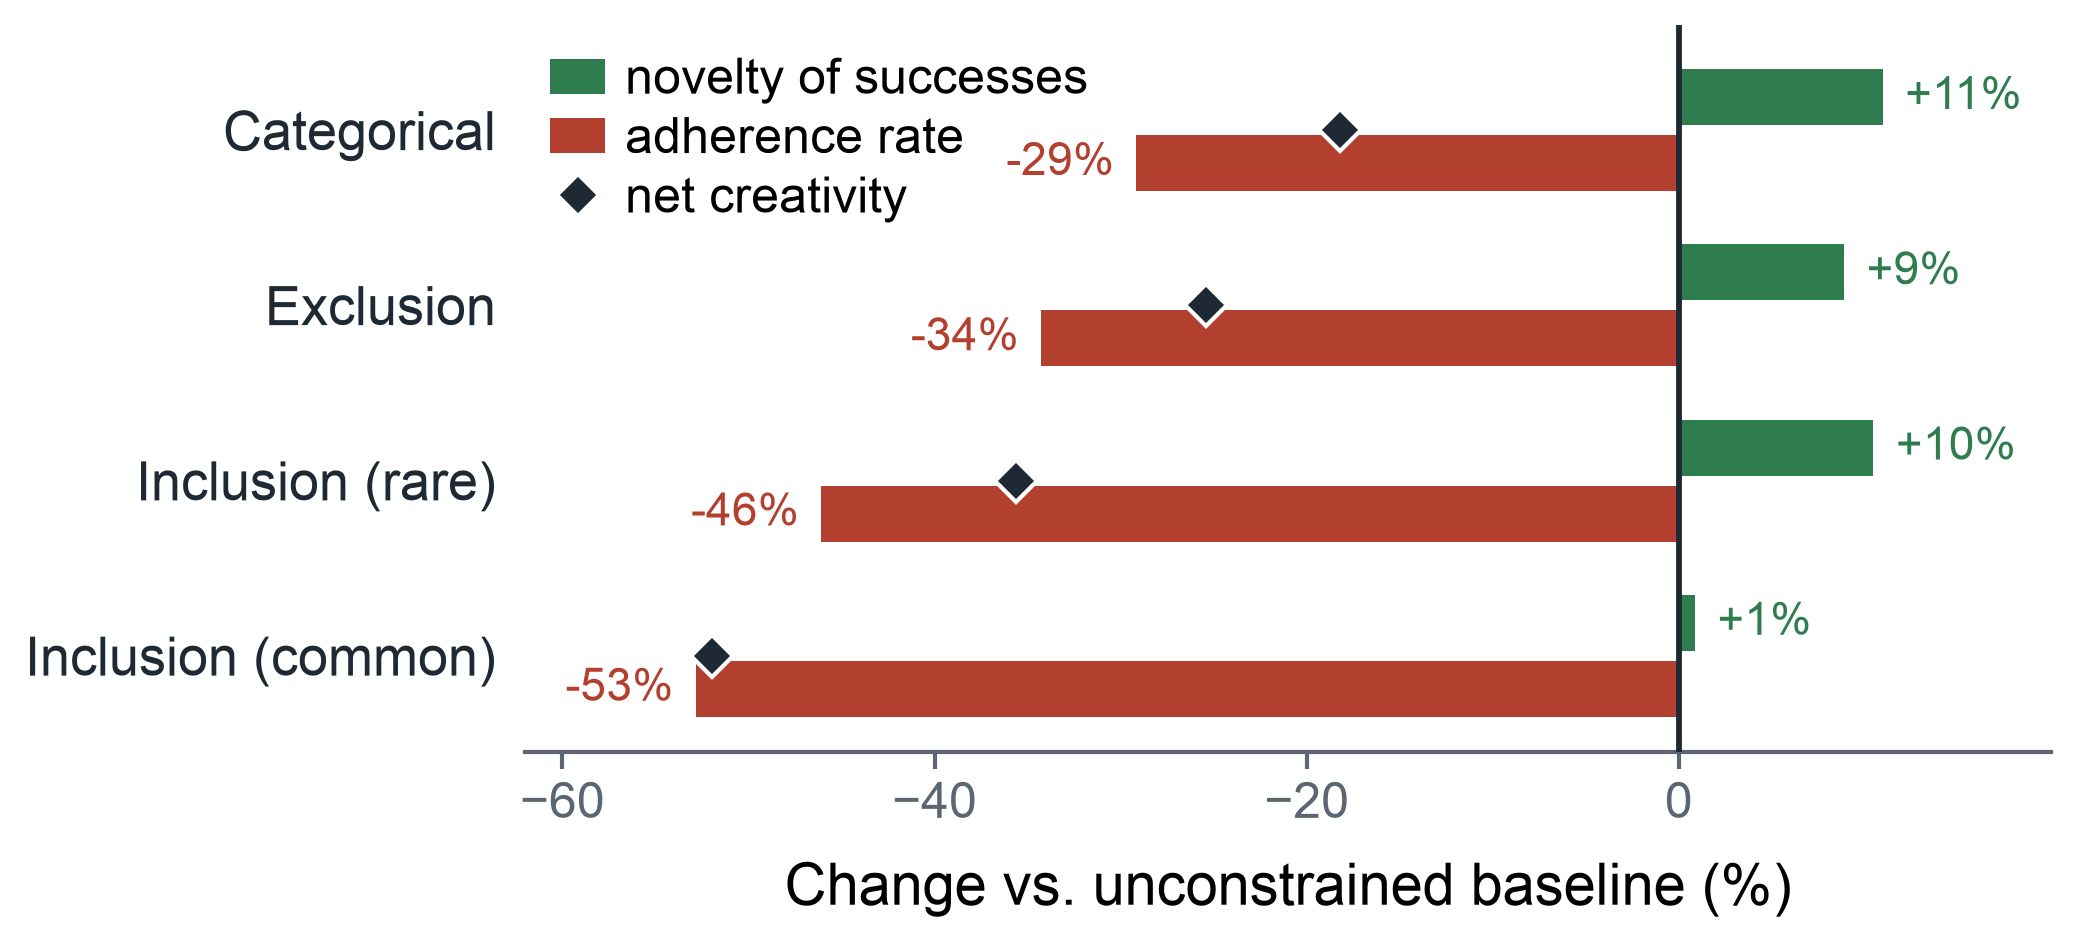
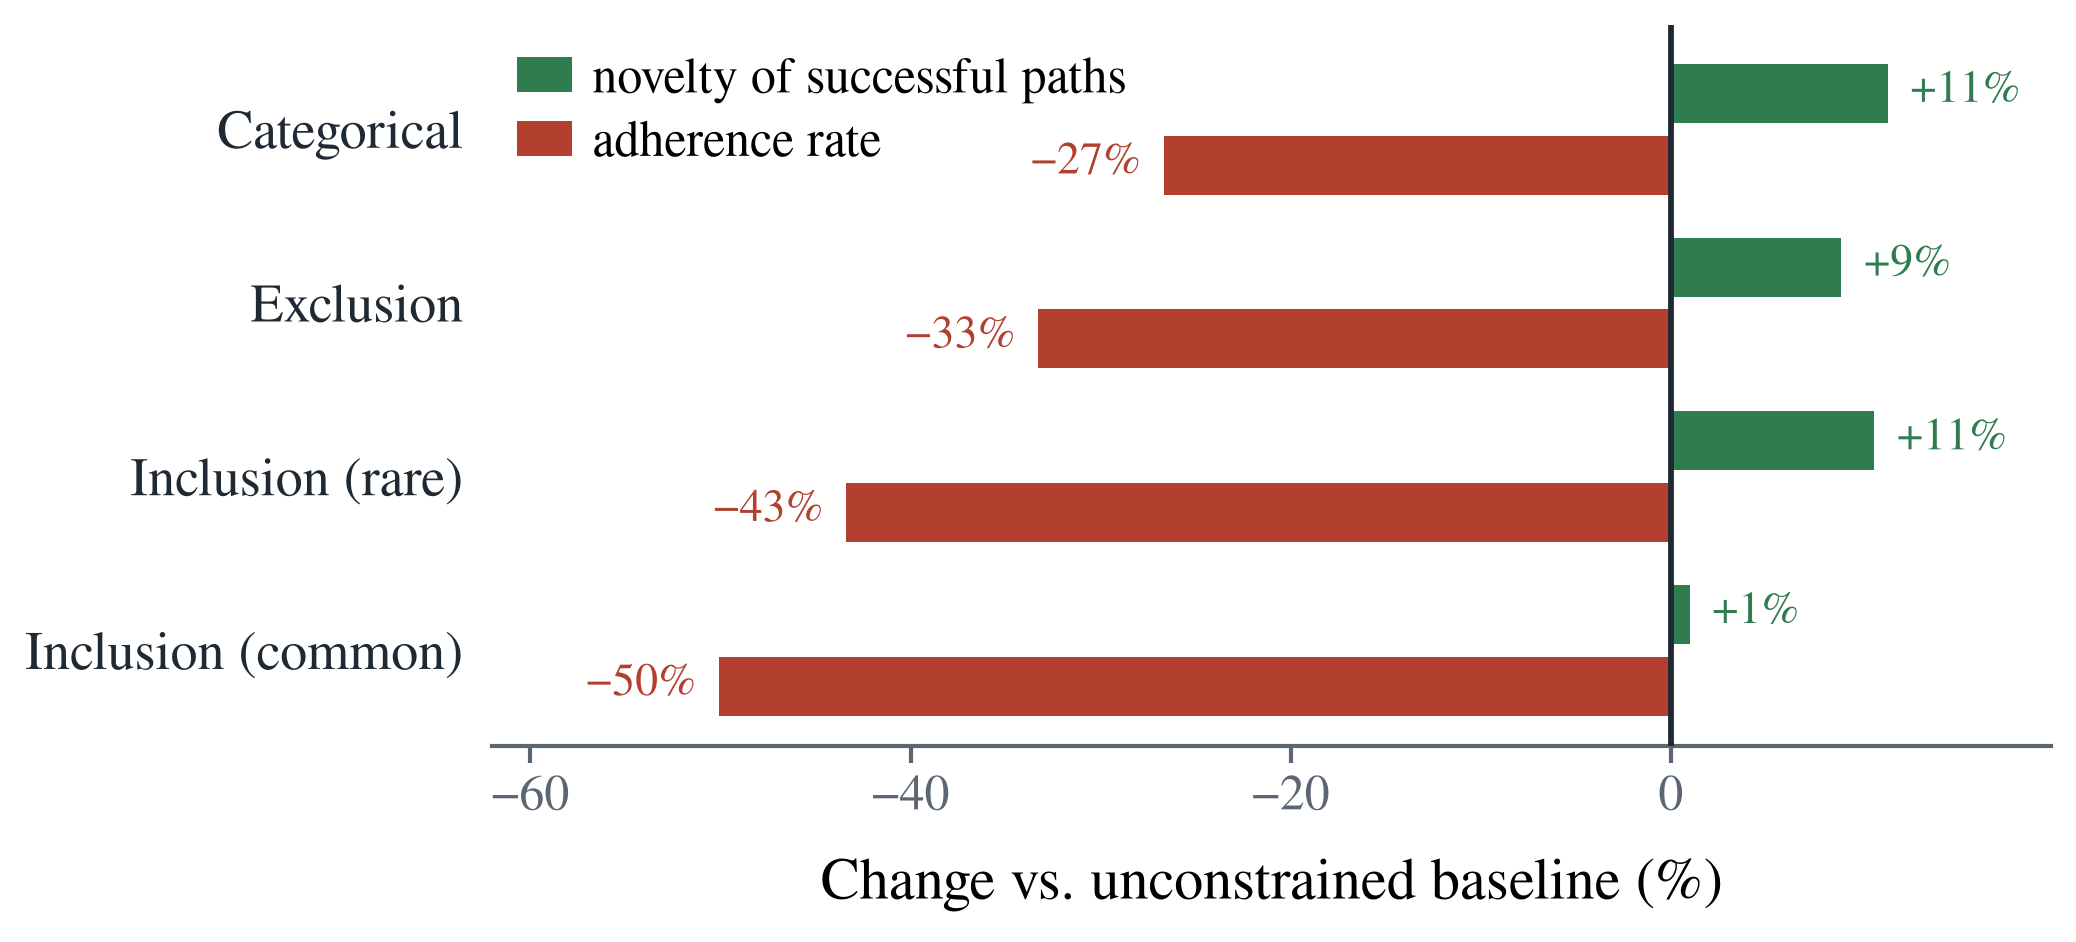
kg_creat: attach sample frame to findings; add reproducible datasheet
Adds src/kg_creat/scripts/datasheet.py, which emits the study's dimensions, sampling
frame, and per-finding n's from the scored data (never hand-typed), and writes a
datasheet the report links. Regenerates identically from data, so prose can't drift.

Surfaces the main generality limit, previously understated: the "30 bundles" use only
21 distinct endpoint entities, with the UN in 11/30 pairs and the Australia Group in
8/30. Despite domain-diverse graph seeds, the sampler's connectivity + biting filters
(degree>=4, >=6 routes, >=3 constraints bite) select hub entities, collapsing the
realized endpoint pool onto prominent geopolitical entities. The report now states this
scope up front and per finding, with the replication unit (8 models) and per-statistic
n's (R_emit ~1,180/constraint; within-bundle paired 139-156 cells).

Makes this a standing convention in docs/repo_usage.md (Reports section): every report
carries its sample size, sampling procedure, frame bias, per-finding n, and an explicit
generality scope.

diff --git a/src/kg_creat/scripts/datasheet.py b/src/kg_creat/scripts/datasheet.py
@@ -1,0 +1,209 @@
+"""Emit a datasheet for a Regime-A scoring run: exactly what was measured, on what, at what n.
+
+A finding is only interpretable alongside its sample. This computes — from the actual scored data,
+never hand-transcribed — the dataset dimensions, the sampling frame (including how narrow the
+realized endpoint pool is), the relation-class derivation, and the per-finding n's the report cites,
+and writes them as a markdown datasheet the report links to. Re-run it whenever the data changes so
+the numbers can never drift from the prose.
+
+    .venv/bin/python src/kg_creat/scripts/datasheet.py \
+        --scores data/kg_creat/scores_regimeA_all \
+        --prompts data/kg_creat/prompts_regimeA_pass2 \
+        --gc data/kg_creat/gc_domains_v1 \
+        --out docs/reports/2026-07-22_kg_creat_creativity/datasheet.md
+"""
+
+import argparse
+import json
+import math
+from collections import Counter
+from pathlib import Path
+from statistics import mean
+
+REPORTED = ["baseline", "categorical", "exclusion", "inclusion_rare", "inclusion"]
+JUDGE = "openai/gpt-oss-120b"
+
+
+def _ok(x):
+    return x is not None and not (isinstance(x, float) and math.isnan(x))
+
+
+def load(scores_dir):
+    A = Path(scores_dir)
+    return {d.name: json.loads((d / "path_scores.json").read_text())
+            for d in sorted(A.iterdir()) if (d / "path_scores.json").exists()}
+
+
+def dataset_facts(recs_by_model, prompts_dir, gc_dir):
+    models = sorted(recs_by_model)
+    one = recs_by_model[models[0]]
+    bundles = sorted({r["bundle_id"] for r in one})
+    cells = sorted({r["mode"] for r in one})
+
+    specs = json.loads((Path(prompts_dir) / "prompts.json").read_text())
+    per_bundle = [s for s in specs if s["mode"] == "exclusion"]
+    ent = Counter()
+    for s in per_bundle:
+        ent[s["u_label"]] += 1
+        ent[s["v_label"]] += 1
+
+    # realized-endpoint domain mix (the generality-critical fact), if the G_c metadata is present
+    dom = Counter()
+    gc_dir = Path(gc_dir)
+    if (gc_dir / "gc.json").exists() and (gc_dir / "entity_domains.json").exists():
+        gc = json.loads((gc_dir / "gc.json").read_text())
+        ed = json.loads((gc_dir / "entity_domains.json").read_text())
+        lab2qid = {n["label"]: n["id"] for n in gc["nodes"]}
+        for e in ent:
+            d = ed.get(lab2qid.get(e, ""))
+            if d:
+                dom[d] += 1
+
+    per_cell = {}
+    for c in REPORTED:
+        paths = [r for recs in recs_by_model.values() for r in recs if r["mode"] == c]
+        per_cell[c] = {
+            "prompts_per_model": len({r["prompt_id"] for r in one if r["mode"] == c}),
+            "paths_total": len(paths),
+            "well_formed": sum(1 for r in paths if r.get("well_formed")),
+            "sat_determined": sum(1 for r in paths if r.get("sat") is not None),
+        }
+    return {"models": models, "bundles": bundles, "cells": cells, "endpoints": ent,
+            "endpoint_domains": dom, "per_cell": per_cell}
+
+
+def relation_classes(prompts_dir):
+    ct = json.loads((Path(prompts_dir) / "classes_targets.json").read_text())
+    return ct["classes"]
+
+
+def finding_ns(recs_by_model):
+    """The n behind each statistic the report reports, computed the same way the report computes it."""
+    S = {}  # per-model per-cell summary rebuilt from path scores for R_emit / paired counts
+    out = {}
+    constraints = [c for c in REPORTED if c != "baseline"]
+
+    # (a) the net-effect boxplot + significance: one paired effect per model
+    out["net_effect_unit"] = f"{len(recs_by_model)} model-level paired effects per constraint"
+
+    # (b) R_emit (novelty over ALL emitted paths, no selection)
+    def rmean(recs, mode):
+        v = [r["R"] for r in recs if r["mode"] == mode and _ok(r["R"])]
+        return (mean(v), len(v)) if v else (None, 0)
+    remit = {}
+    for c in REPORTED:
+        ns = [rmean(recs, c)[1] for recs in recs_by_model.values()]
+        remit[c] = sum(ns)
+    out["R_emit_paths"] = remit
+
+    # (c) within-bundle paired R_valid: count paired (model,bundle) cells
+    paired = {}
+    for c in constraints:
+        n = 0
+        for recs in recs_by_model.values():
+            by = {}
+            for r in recs:
+                if r["sat"] and _ok(r["R"]):
+                    by.setdefault((r["bundle_id"], r["mode"]), []).append(r["R"])
+            for b in {k[0] for k in by}:
+                if (b, "baseline") in by and (b, c) in by:
+                    n += 1
+        paired[c] = n
+    out["within_bundle_paired"] = paired
+    return out
+
+
+def render(facts, classes, ns):
+    L = []
+    L.append("# Regime-A datasheet (auto-generated)\n")
+    L.append("Generated by `src/kg_creat/scripts/datasheet.py` from the scored data. Do not edit by "
+             "hand; re-run when the data changes. Every finding in the report should cite the "
+             "relevant row here.\n")
+
+    L.append("## Models (n = %d)\n" % len(facts["models"]))
+    L.append("A convenience sample spanning four developer families and a cheap→frontier capability "
+             "range; **not** a random or exhaustive sample of models.\n")
+    for m in facts["models"]:
+        L.append(f"- `{m}`")
+    L.append("")
+
+    L.append("## Task and cells\n")
+    pc = facts["per_cell"]
+    L.append("Reported constraint set: **4 types + baseline** (ordering piloted and dropped — see "
+             "assessment.md §7c). Each prompt requests `k = 5` paths `u → v`.\n")
+    L.append("| cell | prompts/model | paths (all models) | well-formed | sat-determined |")
+    L.append("|---|---|---|---|---|")
+    for c in REPORTED:
+        r = pc[c]
+        L.append(f"| {c} | {r['prompts_per_model']} | {r['paths_total']} | {r['well_formed']} | "
+                 f"{r['sat_determined']} |")
+    tot = sum(r["paths_total"] for r in pc.values())
+    L.append(f"\n**Total paths in the reported set: {tot}** (excludes the dropped ordering cell). "
+             f"Judge: `{JUDGE}`.\n")
+
+    L.append("## Sampling frame — endpoints (the generality-critical part)\n")
+    ep = facts["endpoints"]
+    L.append(f"The {len(facts['bundles'])} endpoint bundles are drawn from only **{len(ep)} distinct "
+             f"entities**, and are heavily concentrated:\n")
+    for e, n in ep.most_common(10):
+        L.append(f"- {e} — in {n} of {len(facts['bundles'])} bundles")
+    if facts["endpoint_domains"]:
+        L.append("\nDomain of those distinct endpoint entities (Wikidata, via the G_c domain tags):\n")
+        for d, n in facts["endpoint_domains"].most_common():
+            L.append(f"- {d}: {n}")
+    L.append("\n**Scope caveat.** The G_c seeds were domain-diverse (22 anchors across 13 domains), "
+             "but the matched-bundle sampler keeps only endpoints that are highly connected "
+             "(`min_degree ≥ 4`, `≥ 6` multi-hop routes) and on which `≥ 3` constraint types both "
+             "bite and remain satisfiable. Those filters select hub entities, so the realized pool "
+             "collapsed onto prominent geopolitical entities (countries + international "
+             "organizations). Findings below are established **for paths among well-connected "
+             "real-world entities of this kind**; they are *not* evidence about sparse or "
+             "domain-specific subgraphs, nor about entities with few multi-hop routes.\n")
+
+    L.append("## Constraint targets\n")
+    L.append("Relation-class constraints are defined over **8 classes** derived by k-means over "
+             "embeddings of the top-150 relations models actually emitted in the baseline pass; "
+             "per-bundle targets are chosen against each bundle's own baseline behaviour so each "
+             "constraint bites by construction. Class shares in the baseline corpus:\n")
+    for c in classes:
+        L.append(f"- {c['name']}: {c['share']*100:.1f}% ({len(c['members'])} member relations)")
+    L.append("")
+
+    L.append("## n behind each finding\n")
+    L.append(f"- **Net creativity effect + significance:** {ns['net_effect_unit']} "
+             "(one-sample t-test on the 8 values, Holm-corrected). The 8 models are the "
+             "replication unit — *not* the ~240 per-bundle differences.")
+    L.append("- **Novelty gain is causal (R_emit, all emitted paths, no success filtering):** "
+             + ", ".join(f"{c} n={ns['R_emit_paths'][c]}" for c in REPORTED if c != "baseline")
+             + f" (baseline n={ns['R_emit_paths']['baseline']}).")
+    L.append("- **Within-bundle paired novelty of successes (ΔR_valid):** "
+             + ", ".join(f"{c} n={ns['within_bundle_paired'][c]}" for c in ns['within_bundle_paired'])
+             + " paired (model,bundle) cells where the model succeeded under both baseline and the "
+             "constraint.")
+    L.append("- **Failure-channel decomposition:** over the well-formed, sat-determined paths per "
+             "cell in the table above.")
+    L.append("")
+    return "\n".join(L)
+
+
+def main():
+    ap = argparse.ArgumentParser()
+    ap.add_argument("--scores", default="data/kg_creat/scores_regimeA_all")
+    ap.add_argument("--prompts", default="data/kg_creat/prompts_regimeA_pass2")
+    ap.add_argument("--gc", default="data/kg_creat/gc_domains_v1")
+    ap.add_argument("--out", default=None)
+    a = ap.parse_args()
+    recs = load(a.scores)
+    facts = dataset_facts(recs, a.prompts, a.gc)
+    classes = relation_classes(a.prompts)
+    ns = finding_ns(recs)
+    md = render(facts, classes, ns)
+    if a.out:
+        Path(a.out).write_text(md)
+        print(f"wrote {a.out}")
+    else:
+        print(md)
+
+
+if __name__ == "__main__":
+    main()

diff --git a/docs/reports/2026-07-22_kg_creat_creativity/datasheet.md b/docs/reports/2026-07-22_kg_creat_creativity/datasheet.md
@@ -1,0 +1,77 @@
+# Regime-A datasheet (auto-generated)
+
+Generated by `src/kg_creat/scripts/datasheet.py` from the scored data. Do not edit by hand; re-run when the data changes. Every finding in the report should cite the relevant row here.
+
+## Models (n = 8)
+
+A convenience sample spanning four developer families and a cheap→frontier capability range; **not** a random or exhaustive sample of models.
+
+- `anthropic_claude-haiku-4-5`
+- `anthropic_claude-sonnet-4-6`
+- `google_gemini-2-5-flash`
+- `google_gemini-2-5-flash-lite`
+- `meta-llama_llama-3-1-8b-instruct`
+- `meta-llama_llama-3-3-70b-instruct`
+- `openai_gpt-4-1-mini`
+- `openai_gpt-4o-mini`
+
+## Task and cells
+
+Reported constraint set: **4 types + baseline** (ordering piloted and dropped — see assessment.md §7c). Each prompt requests `k = 5` paths `u → v`.
+
+| cell | prompts/model | paths (all models) | well-formed | sat-determined |
+|---|---|---|---|---|
+| baseline | 30 | 1195 | 965 | 1194 |
+| categorical | 30 | 1196 | 949 | 1190 |
+| exclusion | 30 | 1184 | 970 | 1183 |
+| inclusion_rare | 30 | 1192 | 892 | 1192 |
+| inclusion | 30 | 1201 | 890 | 1201 |
+
+**Total paths in the reported set: 5968** (excludes the dropped ordering cell). Judge: `openai/gpt-oss-120b`.
+
+## Sampling frame — endpoints (the generality-critical part)
+
+The 30 endpoint bundles are drawn from only **21 distinct entities**, and are heavily concentrated:
+
+- United Nations — in 11 of 30 bundles
+- Australia Group — in 8 of 30 bundles
+- United Kingdom — in 4 of 30 bundles
+- United States — in 3 of 30 bundles
+- Japan — in 3 of 30 bundles
+- Germany — in 3 of 30 bundles
+- Brazil — in 3 of 30 bundles
+- France — in 3 of 30 bundles
+- Spain — in 3 of 30 bundles
+- Colombia — in 3 of 30 bundles
+
+Domain of those distinct endpoint entities (Wikidata, via the G_c domain tags):
+
+- geography: 8
+- film: 4
+- science: 4
+- art: 2
+- sports: 1
+- music: 1
+- politics: 1
+
+**Scope caveat.** The G_c seeds were domain-diverse (22 anchors across 13 domains), but the matched-bundle sampler keeps only endpoints that are highly connected (`min_degree ≥ 4`, `≥ 6` multi-hop routes) and on which `≥ 3` constraint types both bite and remain satisfiable. Those filters select hub entities, so the realized pool collapsed onto prominent geopolitical entities (countries + international organizations). Findings below are established **for paths among well-connected real-world entities of this kind**; they are *not* evidence about sparse or domain-specific subgraphs, nor about entities with few multi-hop routes.
+
+## Constraint targets
+
+Relation-class constraints are defined over **8 classes** derived by k-means over embeddings of the top-150 relations models actually emitted in the baseline pass; per-bundle targets are chosen against each bundle's own baseline behaviour so each constraint bites by construction. Class shares in the baseline corpus:
+
+- membership: 31.9% (25 member relations)
+- location or origin: 16.7% (24 member relations)
+- collaboration: 16.4% (34 member relations)
+- participation: 15.8% (21 member relations)
+- international relations: 7.3% (17 member relations)
+- agentive: 6.7% (18 member relations)
+- position: 3.1% (6 member relations)
+- affiliation: 2.2% (5 member relations)
+
+## n behind each finding
+
+- **Net creativity effect + significance:** 8 model-level paired effects per constraint (one-sample t-test on the 8 values, Holm-corrected). The 8 models are the replication unit — *not* the ~240 per-bundle differences.
+- **Novelty gain is causal (R_emit, all emitted paths, no success filtering):** categorical n=1193, exclusion n=1176, inclusion_rare n=1182, inclusion n=1182 (baseline n=1163).
+- **Within-bundle paired novelty of successes (ΔR_valid):** categorical n=144, exclusion n=156, inclusion_rare n=142, inclusion n=139 paired (model,bundle) cells where the model succeeded under both baseline and the constraint.
+- **Failure-channel decomposition:** over the well-formed, sat-determined paths per cell in the table above.

diff --git a/docs/reports/2026-07-22_kg_creat_creativity/report.md b/docs/reports/2026-07-22_kg_creat_creativity/report.md
@@ -20,6 +20,19 @@ and rare relation class). A fifth — ordering — was piloted and **dropped** a
 construction (Appendix A). Every cell is administered on the **same 30 endpoint pairs**, so within a
 pair only the constraint changes and every comparison is a model differenced against itself.
 
+> **Data & sampling** — full auto-generated [datasheet](datasheet.md).
+> - **8 models** (Anthropic / OpenAI / Google / Meta; cheap→frontier) — a convenience sample, not
+>   random or exhaustive. The 8 models are the replication unit for significance.
+> - **30 endpoint bundles × 5 cells × 5 paths/prompt = 5,968 scored paths** (excludes dropped
+>   ordering); judge `gpt-oss-120b`.
+> - **Narrow endpoint frame — the main scope limit.** The 30 bundles use only **21 distinct
+>   entities**; the UN appears in 11 of 30 pairs, the Australia Group in 8. Although the graph's
+>   seeds spanned 13 domains, the sampler's connectivity + biting filters (`degree ≥ 4`,
+>   `≥ 6 routes`, `≥ 3 constraints bite`) select hub entities, collapsing the realized pool onto
+>   **prominent geopolitical entities** (countries + international organizations). Everything below
+>   is established *for paths among well-connected real-world entities of this kind* — not for
+>   sparse or domain-specific subgraphs, and not for a random draw of models.
+
 ---
 
 ## 1. One endpoint pair, five cells
@@ -66,12 +79,14 @@ adherence least (−27 %), which is exactly why its net is smallest.
 *conditional on success*, so maybe constraints don't make paths novel — they just select the novel
 ones that happen to satisfy. Two controls rule this out:
 
-- **Novelty rises in `R_emit`, over *all* emitted paths including failures** (+0.019 to +0.053).
-  A pure selection effect could not move a mean that already contains the failures. The constraint
-  changes what the model *reaches for*.
+- **Novelty rises in `R_emit`, over *all* emitted paths including failures** (+0.019 to +0.053;
+  n ≈ 1,180 emitted paths per constraint across the 8 models, vs 1,163 baseline). A pure selection
+  effect could not move a mean that already contains the failures. The constraint changes what the
+  model *reaches for*.
 - **It survives holding endpoints fixed.** Comparing a model's *successful constrained* paths to its
   *successful baseline* paths on the **same bundle**, the constrained success is more novel by +0.028
-  to +0.072 (in 56–76 % of bundles). Not a between-endpoint artifact.
+  to +0.072 (in 56–76 % of the n = 139–156 paired model×bundle cells per constraint). Not a
+  between-endpoint artifact.
 
 **Where the novelty gain comes from.** Look at the one constraint that *doesn't* raise novelty:
 inclusion of a **common** class (+1 %). The others all push models toward *less-traveled* relations —
@@ -85,8 +100,10 @@ novelty lever is specifically "go somewhere you usually wouldn't."
 
 ![net creativity by constraint type](figures/fig_creativity_by_constraint.png)
 
-Each box is the 8 per-model paired effects (constrained − unconstrained, same endpoints); stars are
-a one-sample t-test on those 8 values, Holm-corrected.
+Each box is the **8 per-model paired effects** (constrained − unconstrained, same endpoints); stars
+are a one-sample t-test on those 8 values, Holm-corrected. The model is the replication unit
+(n = 8), so significance speaks to consistency *across these 8 models*, not across endpoints or a
+model population — the 30 bundles enter only as the within-model averaging set.
 
 | cell | creativity `E[R·U]` | paired Δ vs baseline | sig. |
 |---|---|---|---|

diff --git a/docs/repo_usage.md b/docs/repo_usage.md
@@ -327,6 +327,22 @@ docs/reports/
 - Include relevant figures and tables
 - Should stand on their own — a collaborator can read one without digging through code or data
 
+**Every report must carry its sample.** A finding is not interpretable without the frame it was
+measured on, so each report states — up front and per finding — the dataset size, the sampling
+procedure, and an explicit scope statement about what the finding does and does not generalize to.
+Concretely:
+- A **Data & sampling** block near the top: n items, n conditions, total observations, the model/data
+  sample and whether it is random vs convenience, and the *replication unit* used for any significance
+  test.
+- The **sampling frame's biases**, especially where a selection filter narrows the realized sample
+  (e.g. connectivity filters that concentrate endpoints on hub entities). State what the frame is
+  *not* evidence about.
+- A **per-finding n**: attach the number of observations (and the unit) to each headline statistic,
+  computed the same way the statistic is.
+- Prefer an **auto-generated datasheet** (a script that emits these numbers from the data) over
+  hand-typed figures, so the prose can never drift from the data. See
+  `src/kg_creat/scripts/datasheet.py` for the pattern.
+
 **Research output hierarchy:** experiments produce raw results in `data/` → interesting results become findings in track notes → established findings get compiled into reports → reports mature into paper sections.
 
 ### Papers (`papers/`)
